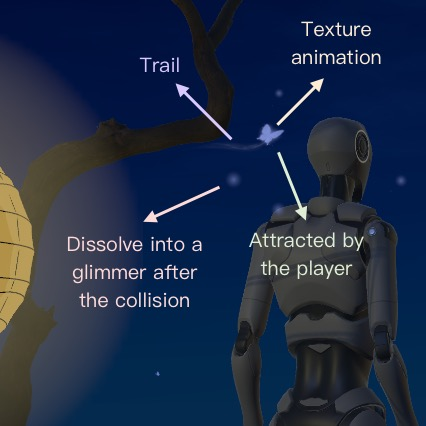
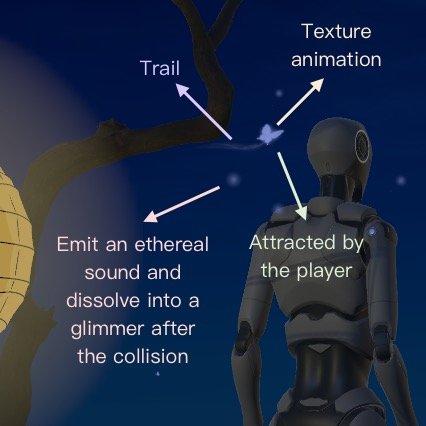
update

diff --git a/Project1/Glass Bottle/README.md b/Project1/Glass Bottle/README.md
@@ -1,0 +1,71 @@
+<div align="center">
+    <h1>Glass Bottle Material</h1>
+    <p><img alt="Static Badge for Software" src="https://img.shields.io/badge/Software-Unity-C2D5C7"><img alt="Static Badge for Software" src="https://img.shields.io/badge/Software-Blender-E9CFCF"> <img alt="Static Badge for Techniques" src="https://img.shields.io/badge/Techniques-Shader_(Graph)%2C_Screen--Space_Refraction%2C_Translucent_Shadow%2C_Post Processing-C2D8EE"></p>
+    <p>A realistic glass bottle material with refraction, reflection, surface details and translucent shadow in Unity's Universal Render Pipeline (URP).</p>
+    <p><img src="media/demo.gif" alt="Demo" title="Demo" height=500></p>
+</div>
+
+
+## Table of Contents <!-- omit from toc -->
+- [Inspiration](#inspiration)
+- [Key Features](#key-features)
+- [Implementation Details](#implementation-details)
+  - [Model Preparation](#model-preparation)
+  - [Shader Graph](#shader-graph)
+  - [HLSL Shader](#hlsl-shader)
+  - [Rendering Order](#rendering-order)
+  - [Post-Processing](#post-processing)
+- [Future Work](#future-work)
+- [References](#references)
+
+## Inspiration
+This project was inspired by the common yet challenging task of creating realistic glass materials in real-time rendering. The unique properties of glass, such as transparent, refraction, reflection, surface imperfections, and translucent shadows, require careful handling. I aimed to develop a glass material that not only looks convincing but also performs efficiently in a game engine.
+
+## Key Features
+- Simulated thickness and screen-space refraction
+- Surface detail enhancements with roughness and normal maps to simulate smudges and scratches
+- Translucent shadows
+- Reflection and specular highlights
+- Separated inner and outer walls with an optimized rendering order to prevent transparency sorting issues
+- Post-processing
+
+<p><img src="media/feature.jpg" alt="Base Setting" title="Base Setting" height=350></p>
+
+## Implementation Details
+
+### Model Preparation
+The glass bottle model was prepared in Blender to separate the inner and outer walls. This allowed for more precise control over the material properties in Unity and easy solving for transparency sorting issues.
+
+### Shader Graph
+1. **Thickness and Refraction**
+    - **Simulated Thickness:** The glass refraction was apparent and darker at the edges, where the glass is thicker. Normals and view direction were used to calculate the perceived thickness, which was later applied as the alpha channel and processed for the multiplier for refraction. <p><img src="media/thickness.png" alt="Thickness" title="Thickness" height=250> <img src="media/thickness_nodes.png" alt="Thickness Nodes" title="Thickness Nodes" height=250></p>
+    - **Screen-Space Refraction:** Refraction was primarily achieved using screen-space sampling. By calculating the refraction direction from the normals and view direction, and offsetting the absolute world space, the screen-space position was determined for sampling. <p><img src="media/refraction.png" alt="Refraction" title="Refraction" height=250> <img src="media/refraction_alpha.png" alt="Refraction Alpha" title="Refraction Alpha" height=250> <img src="media/refraction_nodes.png" alt="Refraction Nodes" title="Refraction Nodes" height=250></p>
+
+2. **Reflection and Specular**
+
+    Initially, I used a reflection probe to capture real-time reflections of the environment around the bottle. However, since the reflection details was unclear on the glass, I found it was unnecessary to use the reflection probe. The built-in reflections in the lit shader was sufficient with with better performance, and its "Preserve Specular Lighting" option was enabled to maintain the specular highlights in the transparent material. <p><img src="media/reflection.png" alt="Refection" title="Reflection" height=250></p>
+    - Matcap Limitations: Matcap was initially considered but ultimately not used due to its limitations with camera and light source positions, which would have affected the realism of the glass material.
+
+3. **Surface Details**
+
+    To increase the realism of the glass material, a roughness map was used to simulate smudges, while a combined normal map was applied to create the appearance of fine scratches on the glass surface. <p><img src="media/details.png" alt="Details" title="Details" height=250> <img src="media/detail1.png" alt="Detail1" title="Detail1" height=250> <img src="media/detail2.png" alt="Detail2" title="Detail2" height=250> <img src="media/normal_nodes.png" alt="Normal Nodes" title="Normal Nodes" height=250> <img src="media/roughness_nodes.png" alt="Roughness Nodes" title="Roughness Nodes" height=250></p>
+
+### HLSL Shader
+To achieve the translucent shadows, I had to modify the default shadowcasting behavior of the Lit Shader Graph. Instead of relying on the URP ShadowCaster pass (ShadowCasterPass.hlsl), I generated the Shader Graph's .shader code and made custom adjustments to it. The final shader applied to the material is this modified version, rather than the one directly created by Shader Graph.
+- **Translucent Shadows**
+
+    Unlike the built-in pipeline, where the Standard shader supports semi-transparent shadows, URP does not support this by default. To simulate translucent shadows, a dither method was used. This approach leverages alpha clipping to handle transparency, which blends well with shadow casting. Instead of directly using Unity's built-in 3D dither texture, the hardcoded dither matrix provided by URP was employed for performance reasons. <p><img src="media/shadow1.png" alt="Shadow1" title="Shadow1" height=250> <img src="media/shadow2.png" alt="Shadow2" title="Shadow2" height=250> <img src="media/shadow_code1.png" alt="Shadow Code1" title="Shadow Code1" width=400> <img src="media/shadow_code2.png" alt="Shadow Code2" title="Shadow Code2" width=400></p>
+
+### Rendering Order
+To solve the transparency sorting issues commonly encountered with semi-transparent materials, the rendering order was carefully managed. The inner wall was rendered first (RenderQueue: 2998), followed by the liquid inside (RenderQueue: 2999), and finally the outer wall (RenderQueue: 3000). <p><img src="media/inside.png" alt="Inside" title="Inside" height=200> + <img src="media/liquid.png" alt="Liquid" title="Liquid" height=200> + <img src="media/outside.png" alt="Outside" title="Outside" height=200> = <img src="media/combine.png" alt="Combine" title="Combine" height=200></p>
+
+### Post-Processing
+Post-processing effects were added to correct the overexposure of the HDR skybox, and a bloom effect was applied to enhance the glow of the glass and other light-reflective surfaces. <p><img src="media/without_post.png" alt="Without Post-Processing" title="Without Post-Processing" height=250> → <img src="media/with_post.png" alt="With Post-Processing" title="With Post-Processing" height=250></p>
+
+## Future Work
+In the future, I plan to enhance the glass material by adding **caustics**, which will further improve the realism by simulating the light patterns created when light passes through the glass. Additionally, I aim to explore more advanced and realistic translucent shadow techniques, such as **Fourier Opacity Maps**, which could provide more accurate shadow representations compared to the current dithering method.
+
+## References
+https://www.youtube.com/watch?v=VMsOPUUj0JA
+
+https://docs.unity3d.com/Packages/com.unity.shadergraph@16.0/manual/Dither-Node.html

diff --git a/Project1/Interactive Butterflies/README.md b/Project1/Interactive Butterflies/README.md
@@ -1,6 +1,6 @@
 <div align="center">
-    <h1>Interactive Butterflies</h1>
-    <p><img alt="Static Badge for Software" src="https://img.shields.io/badge/Software-Unity-C2D5C7"><img alt="Static Badge for Software" src="https://img.shields.io/badge/Software-Blender-E9CFCF"><img alt="Static Badge for Photoshop" src="https://img.shields.io/badge/Software-Photoshop-D6CADF"> <img alt="Static Badge for Techniques" src="https://img.shields.io/badge/Techniques-Particle_System,_Scripting-C2D8EE"></p>
+    <h1>Interactive Butterfly Effect</h1>
+    <p><img alt="Static Badge for Software" src="https://img.shields.io/badge/Software-Unity-C2D5C7"><img alt="Static Badge for Software" src="https://img.shields.io/badge/Software-Blender-E9CFCF"><img alt="Static Badge for Photoshop" src="https://img.shields.io/badge/Software-Photoshop-D6CADF"> <img alt="Static Badge for Techniques" src="https://img.shields.io/badge/Techniques-Particle_System%2C_Scripting-C2D8EE"></p>
     <p>An interactive butterfly effect created in Unity, where butterflies gracefully flutter around and will be drawn to the approaching player. Upon contact, these fragile, otherworldly butterflies emit an ethereal sound, dissolve into soft glimmer and gradually disappear, creating an immersive and dreamlike experience. The effect is designed to enhance the atmosphere of the scene, providing a captivating interaction within a subtle nighttime environment.</p>
     [video here]
 </div>
@@ -24,7 +24,7 @@ The inspiration for this project came from the serene and mysterious atmosphere 
 - Ethereal sound effects with randomized pitch and volume variations upon collisions
 - Custom trail textures and UV animations for butterfly wings
 
-<p><img src="media/feature.jpg" alt="Base Setting" title="Base Setting" height=250> <img src="media/demo.gif" alt="Demo" title="Demo" height=400></p>
+<p><img src="media/feature.jpg" alt="Base Setting" title="Base Setting" height=350> <img src="media/demo.gif" alt="Demo" title="Demo" height=350></p>
 
 ## Implementation Details
 

diff --git a/Project1/template/README.md b/Project1/template/README.md
@@ -15,6 +15,7 @@
   - [xx](#xx)
   - [xxx](#xxx)
 - [Reflection](#reflection)
+- [References](#references)
 
 ## Inspiration
 xxx
@@ -39,4 +40,7 @@ xxx
 
 
 ## Reflection
+xx
+
+## References
 xx
